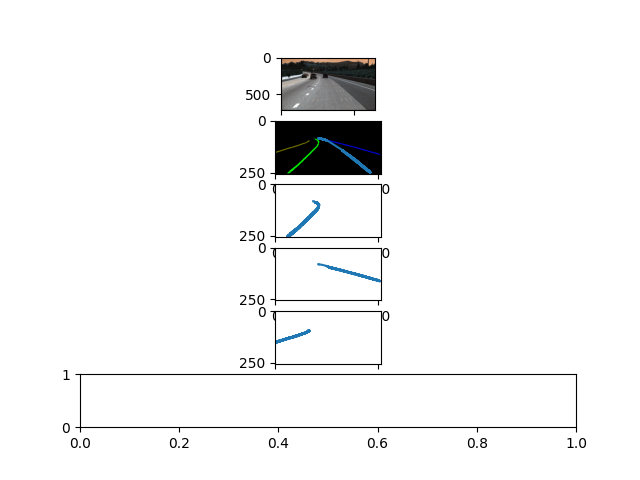
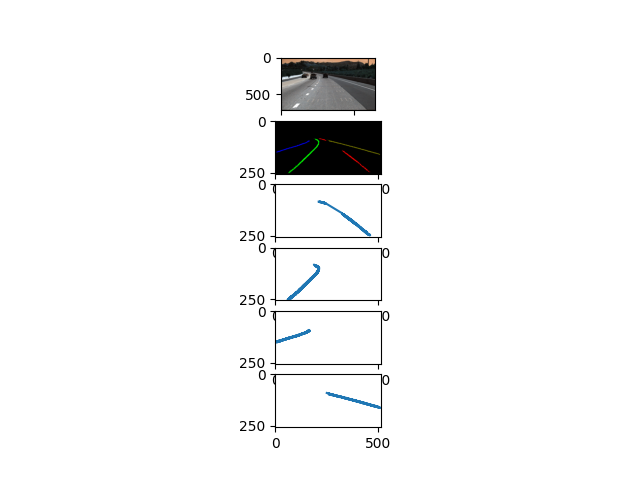
fix  run draw code

diff --git a/run.py b/run.py
@@ -80,10 +80,10 @@ if __name__ == '__main__':
         axarr[1].imshow(mask_image)
 
         for i in range(len(lane_lines)):
-            axarr[1+i].plot(lane_lines[i][1],lane_lines[i][0])
-            axarr[1+i].set_xlim([0, DEFAULT_SIZE[1]])
-            axarr[1 + i].set_ylim([DEFAULT_SIZE[0],0])
-            axarr[1 + i].set_aspect('equal')
+            axarr[2+i].plot(lane_lines[i][1],lane_lines[i][0])
+            axarr[2+i].set_xlim([0, DEFAULT_SIZE[1]])
+            axarr[2 + i].set_ylim([DEFAULT_SIZE[0],0])
+            axarr[2 + i].set_aspect('equal')
         plt.savefig('./pics/run_resultimage.png')
         plt.show()
 
